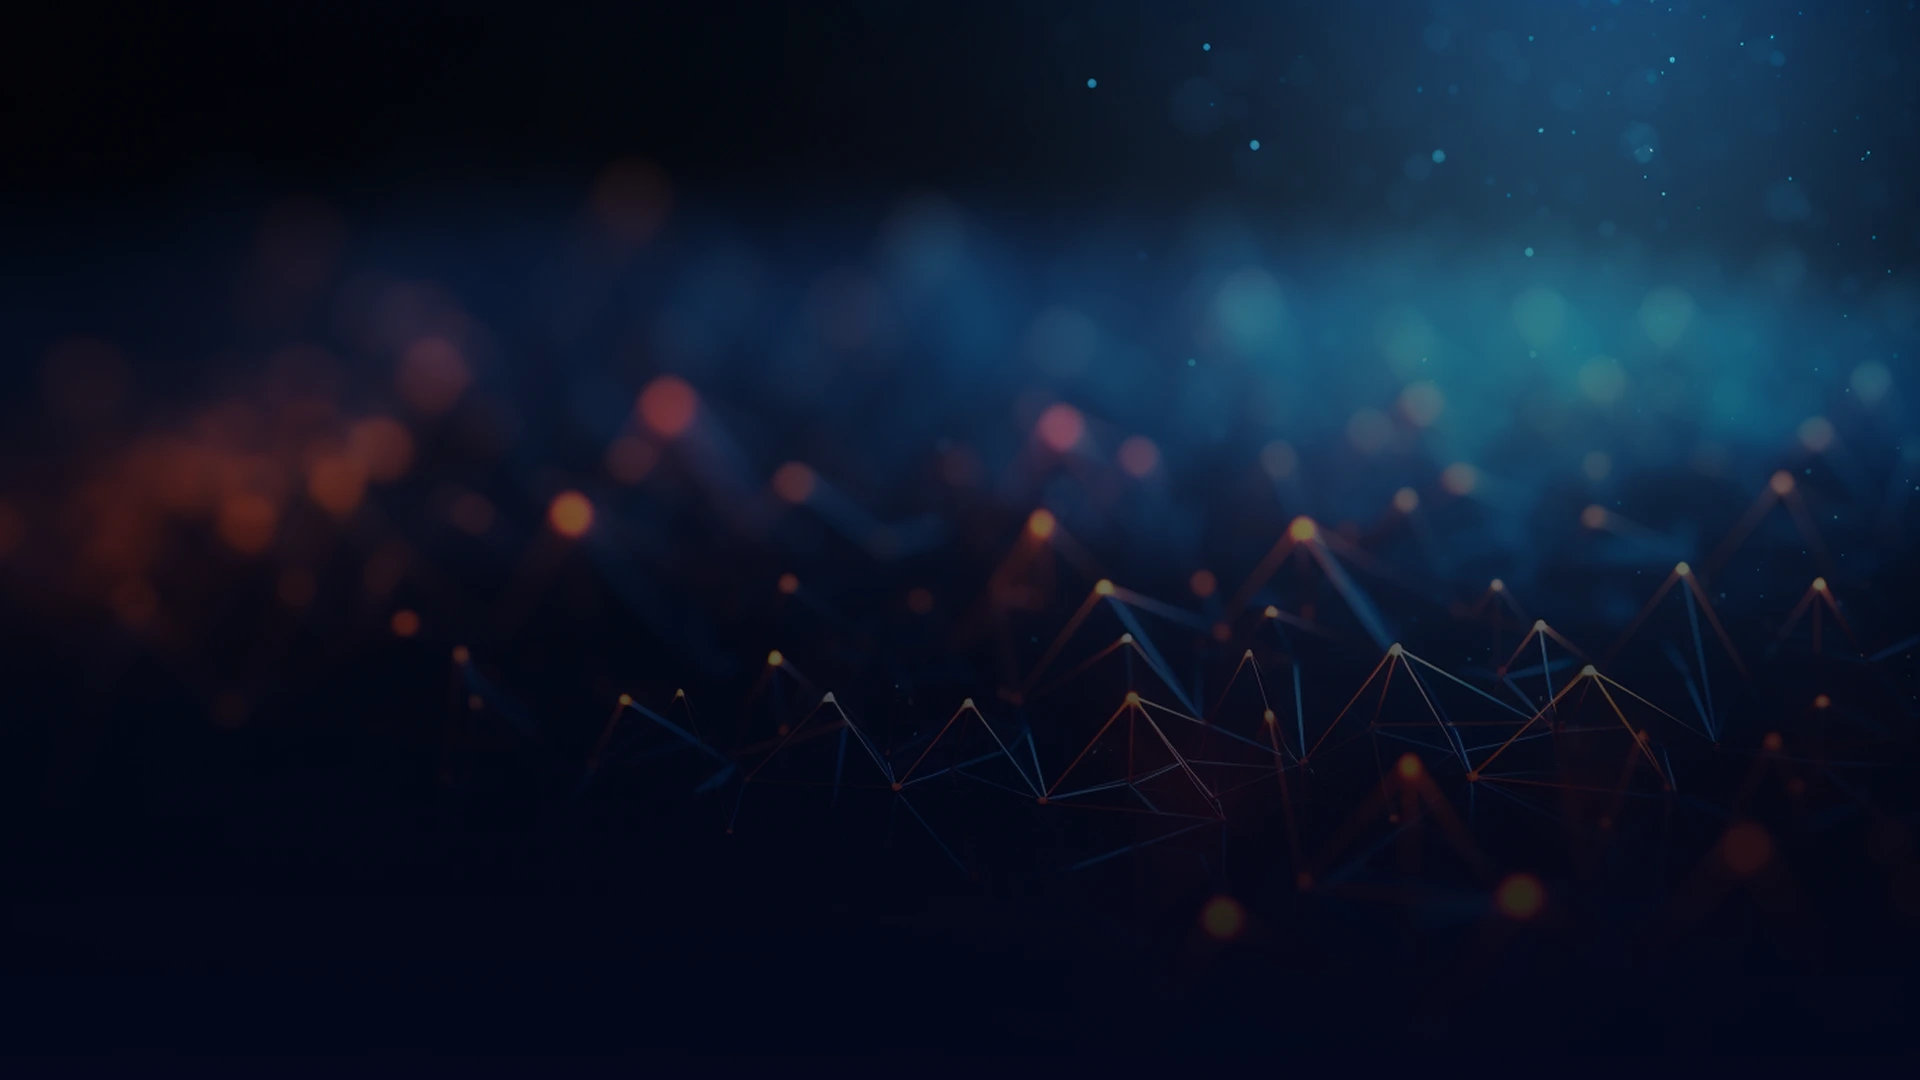
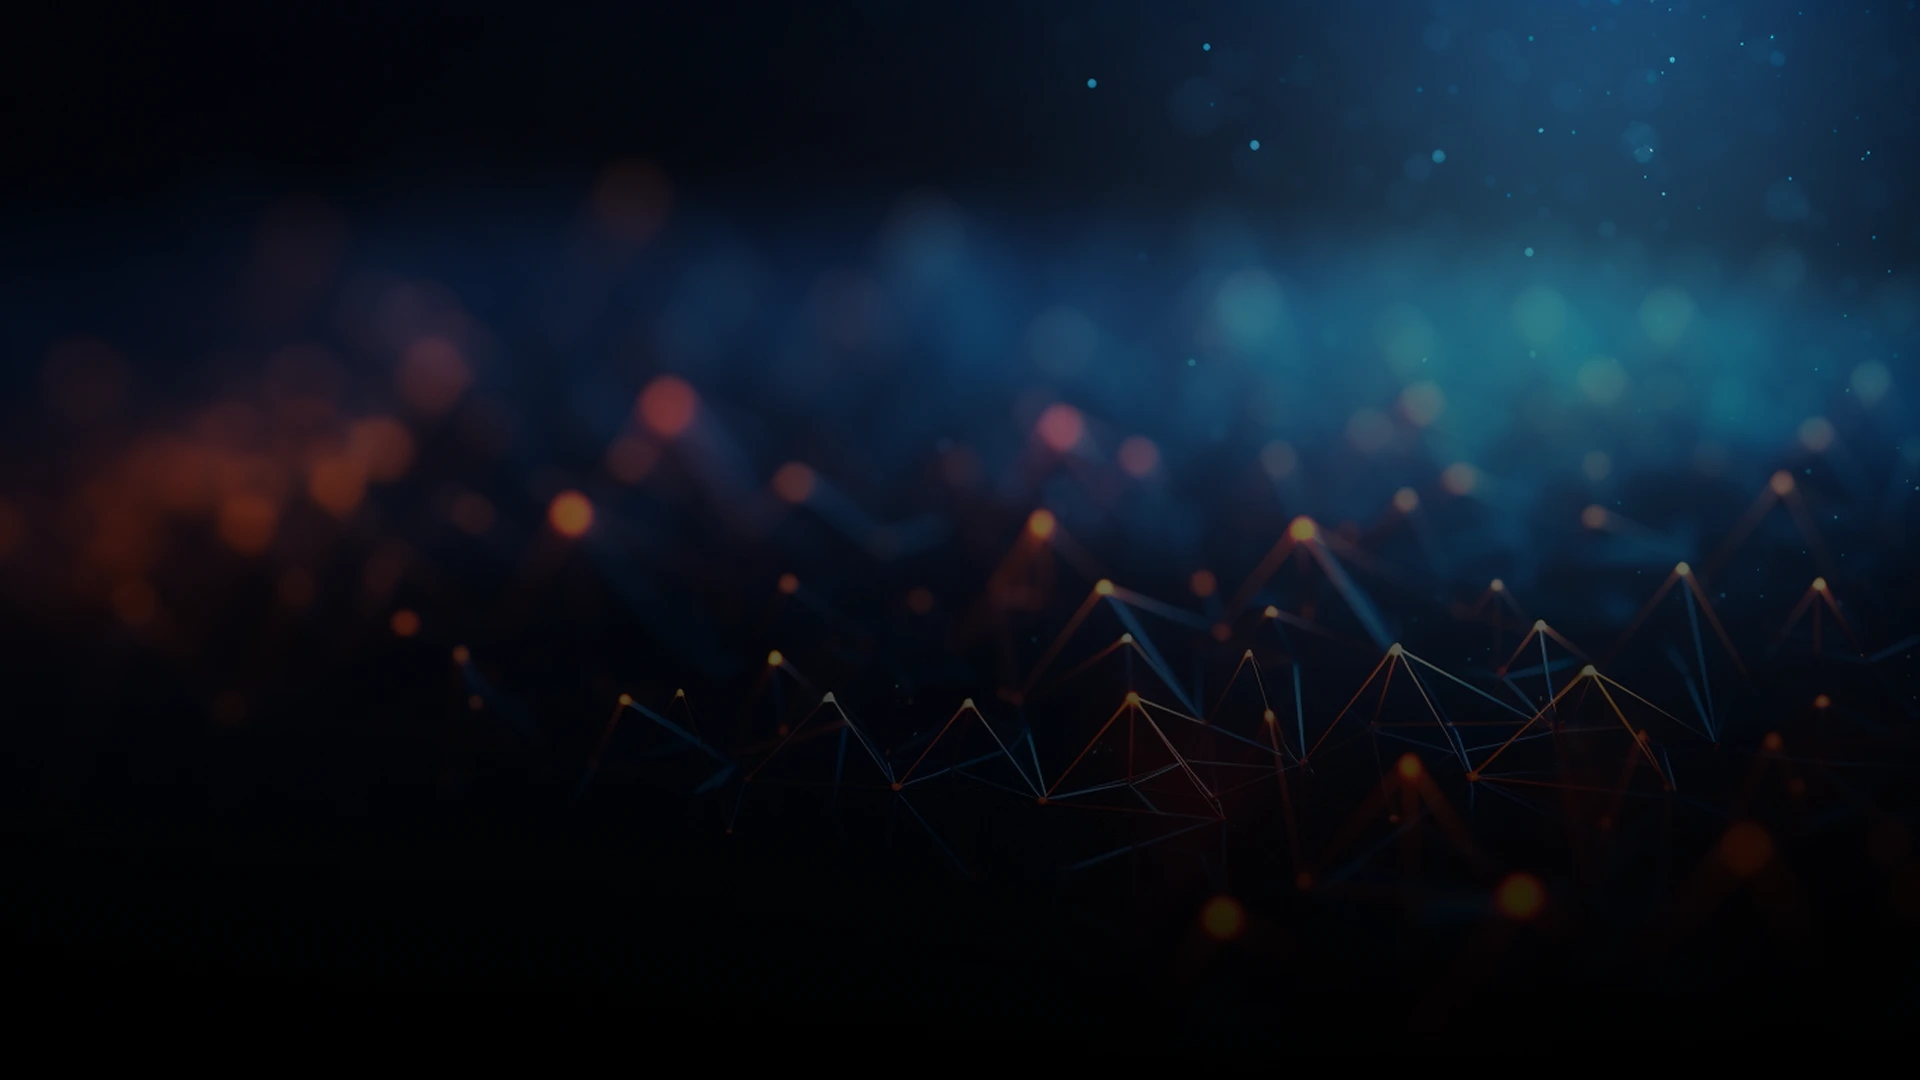
fix 모델 Detail 페이지 - 상단 헤더 버그 픽스 [S12P31S109-307]

Changed region(s): [[0.0, 0.8861, 1.0, 1.0]]

diff --git a/fe/sesim/src/components/AiModelDetail/ImageTitleBannerWithNav.tsx b/fe/sesim/src/components/AiModelDetail/ImageTitleBannerWithNav.tsx
@@ -1,4 +1,5 @@
 import React from "react";
+import { motion } from "framer-motion";
 import backgroundImage from "../../assets/images/ai-model-detail-bg.webp";
 
 interface ImageTitleBannerWithNavProps {
@@ -10,38 +11,50 @@ interface ImageTitleBannerWithNavProps {
 
 export const ImageTitleBannerWithNav: React.FC<ImageTitleBannerWithNavProps> = ({ modelName, description, selectedTab, setSelectedTab }) => {
     return (
-        <div className="grid w-full h-screen min-h-[200px] md:min-h-[300px] lg:min-h-[400px]">
-            <img
-                src={backgroundImage}
-                alt="PageBackground"
-                className="w-full h-full object-cover col-start-1 row-start-1"
-            />
-            <div className="relative bg-[#0A0C35]/30 flex flex-col justify-center items-center col-start-1 row-start-1 min-h-[300px] pb-[70px]">
-                <div 
-                    className="flex flex-col justify-center items-center text-center flex-1 gap-[10px]"
-                    style={{ paddingTop: "5%" }}
-                >
-                    <h1 className="text-white text-[28px] md:text-[42px] lg:text-6xl font-bold">{modelName}</h1>
-                    <p className="text-white text-[16px] md:text-[20px] lg:text-2xl font-normal">
-                        { description }
-                    </p>
-                </div>
-                <div className="flex items-center justify-center gap-[32px] md:gap-[60px] lg:gap-[100px] bg-[#000000]/40 w-full h-[48px] md:h-[60px] lg:h-[70px] absolute bottom-0 left-0 z-10">
-                    <button
-                        className={`text-white text-[18px] md:text-[22px] lg:text-[24px] font-bold hover:text-gray-300 transition-colors ${selectedTab === "description" ? "underline" : ""}`}
-                        onClick={() => setSelectedTab("description")}
-                    >
-                        상세 설명
-                    </button>
-                    <div className="bg-[#ffffff]/50 w-[8px] md:w-[10px] h-[8px] md:h-[10px] rounded-full"></div>
-                    <button
-                        className={`text-white text-[18px] md:text-[22px] lg:text-[24px] font-bold hover:text-gray-300 transition-colors ${selectedTab === "examplecode" ? "underline" : ""}`}
-                        onClick={() => setSelectedTab("examplecode")}
-                    >
-                        예시 코드
-                    </button>
+        <div className="relative">
+            <div className="grid w-full h-screen container-padding">
+                <img
+                    src={backgroundImage}
+                    alt="PageBackground"
+                    className="w-full h-full object-cover absolute inset-0"
+                />
+                <div className="relative flex flex-col justify-center items-center col-start-1 row-start-1 min-h-[300px] pb-[70px]">
+                    <div className="flex flex-col justify-center items-center text-center flex-1 gap-[10px]" style={{ paddingTop: "5%" }}>
+                        <motion.h1
+                            className="text-white text-[28px] md:text-[42px] lg:text-6xl font-bold"
+                            initial={{ opacity: 0, y: 40 }}
+                            animate={{ opacity: 1, y: 0 }}
+                            transition={{ duration: 1, ease: "easeOut" }}
+                        >
+                            {modelName}
+                        </motion.h1>
+                        <motion.p
+                            className="text-white text-[16px] md:text-[20px] lg:text-2xl font-normal"
+                            initial={{ opacity: 0, y: 40 }}
+                            animate={{ opacity: 1, y: 0 }}
+                            transition={{ duration: 1, delay: 0.3, ease: "easeOut" }}
+                        >
+                            {description}
+                        </motion.p>
+                    </div>
+                    <div className="absolute z-30 flex items-center justify-center gap-[32px] md:gap-[60px] lg:gap-[100px] bg-[#000000]/40 w-full h-[48px] md:h-[60px] lg:h-[70px] absolute bottom-0 left-0 z-10">
+                        <button
+                            className={`text-white text-[18px] md:text-[22px] lg:text-[24px] font-bold hover:text-gray-300 transition-colors ${selectedTab === "description" ? "underline" : ""}`}
+                            onClick={() => setSelectedTab("description")}
+                        >
+                            상세 설명
+                        </button>
+                        <div className="bg-[#ffffff]/50 w-[8px] md:w-[10px] h-[8px] md:h-[10px] rounded-full"></div>
+                        <button
+                            className={`text-white text-[18px] md:text-[22px] lg:text-[24px] font-bold hover:text-gray-300 transition-colors ${selectedTab === "examplecode" ? "underline" : ""}`}
+                            onClick={() => setSelectedTab("examplecode")}
+                        >
+                            예시 코드
+                        </button>
+                    </div>
                 </div>
             </div>
         </div>
+        
     );
 };

diff --git a/fe/sesim/src/pages/AiModelDetailPage.tsx b/fe/sesim/src/pages/AiModelDetailPage.tsx
@@ -44,7 +44,12 @@ export const AiModelDetailPage = () => {
                     setSelectedTab={setSelectedTab}
                 />
             </div>
-            <div className="container-padding my-[44px] text-white relative z-10">
+            <div 
+                className="container-padding py-[44px] text-white relative z-10"
+                style={{
+                    background: "linear-gradient(to bottom, #000000 0px, #04101D 300px, #04101D 100%)"
+                }}
+            >
                 { selectedTab === "description" && (
                     <motion.div 
                         className="py-[44px]"
@@ -52,10 +57,6 @@ export const AiModelDetailPage = () => {
                         animate={{ opacity: 1, y: 0 }}
                         transition={{ duration: 1, delay: 0.2, ease: "easeOut" }}
                     >
-                        <div className="flex flex-col items-center gap-[15px]">
-                            <BlueCircle />
-                            <h1 className="text-[24px] md:text-[32px] lg:text-[37px] font-bold">특징</h1>
-                        </div>
                         <div>
                             <div className="mt-[2px]">
                                 {features.map((feature, index) => (
@@ -67,20 +68,20 @@ export const AiModelDetailPage = () => {
                                         viewport={{ once: true, amount: 0.2 }}
                                     >
                                         <h2
-                                            className={`text-[80px] font-bold text-[#0075FF]/50 ${index % 2 === 1 ? "ml-[34%]" : ""}`}
+                                            className={`text-[80px] font-bold text-[#718AA1]/50 ${index % 2 === 1 ? "ml-[34%]" : ""}`}
                                         >
                                             0{index + 1}
                                         </h2>
                                         <div className={`flex gap-8 items-start w-full mb-10 ${index % 2 === 1 ? "flex-row-reverse" : ""}`}>
                                             <div className="flex flex-col gap-4 flex-[2] min-w-0 ml-[50px]">
-                                                <div className="bg-gradient-to-l from-transparent to-[#367DF8] px-8 py-3 mb-2 rounded-[10px]">
+                                                <div className="bg-gradient-to-r from-[#4483A6] to-[#367DF8]/0 px-8 py-3 mb-2 rounded-[10px]">
                                                     <p className="text-[30px] font-bold">{feature.featureSummary}</p>
                                                 </div>
                                                 <p className="text-[20px] font-medium flex items-center gap-[10px]">
-                                                    <BsCircleFill className="text-[#0075FF] w-[10px] h-[10px]" /> {feature.featureOverview}
+                                                    <BsCircleFill className="text-[#718AA1] w-[10px] h-[10px]" /> {feature.featureOverview}
                                                 </p>
                                                 <p className="text-[20px] font-medium flex items-center gap-[10px]">
-                                                    <BsCircleFill className="text-[#0075FF] w-[10px] h-[10px]" /> {feature.featureDetail}
+                                                    <BsCircleFill className="text-[#718AA1] w-[10px] h-[10px]" /> {feature.featureDetail}
                                                 </p>
                                             </div>
                                             <div className="flex-[1] flex items-center justify-center min-w-[1]">
@@ -105,10 +106,6 @@ export const AiModelDetailPage = () => {
                         transition={{ duration: 1, delay: 0.2, ease: "easeOut" }}
                     >
                         <div className="flex flex-col gap-[10px]">
-                            <div className="flex flex-col items-center">
-                                <BlueCircle />
-                                <h1 className="text-[24px] md:text-[32px] lg:text-[37px] font-bold">예시 코드</h1>
-                            </div>
                             <div className="flex flex-col gap-[15px]">
                                 <div>
                                     <p>사용자의 로그 데이터를 기반으로 학습시켜 개인 맞춤형 보안 탐지 모델로 활용할 수 있습니다.</p>
@@ -131,7 +128,7 @@ export const AiModelDetailPage = () => {
                                 
                                 <AnimatedButton
                                     text="SESIM SDK 다운로드 하러 가기" 
-                                    link="/" 
+                                    link="/sdk-download" 
                                     width="370px" 
                                 />
                             </div>

diff --git a/fe/sesim/src/components/ModelInferenceService/UserGuideSection.tsx b/fe/sesim/src/components/ModelInferenceService/UserGuideSection.tsx
@@ -46,7 +46,7 @@ export const UserGuideSection = ({ initialStep }: UserGuideSectionProps) => {
     return (
         <div 
             ref={sectionRef} 
-            className="relative flex pb-[100px]  container-padding"
+            className="relative flex pb-[100px] container-padding"
             style={{
                 background: "linear-gradient(to bottom, #000000 0px, #04101D 1000px, #04101D 100%)"
             }}
